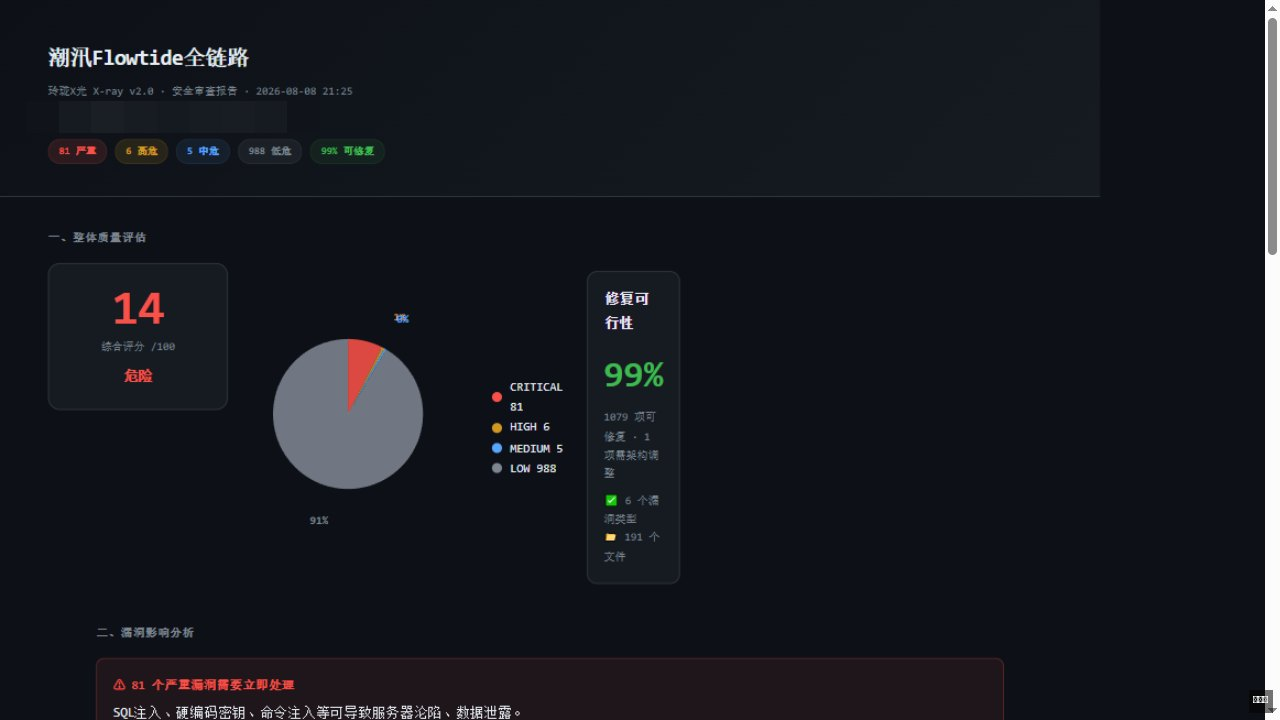
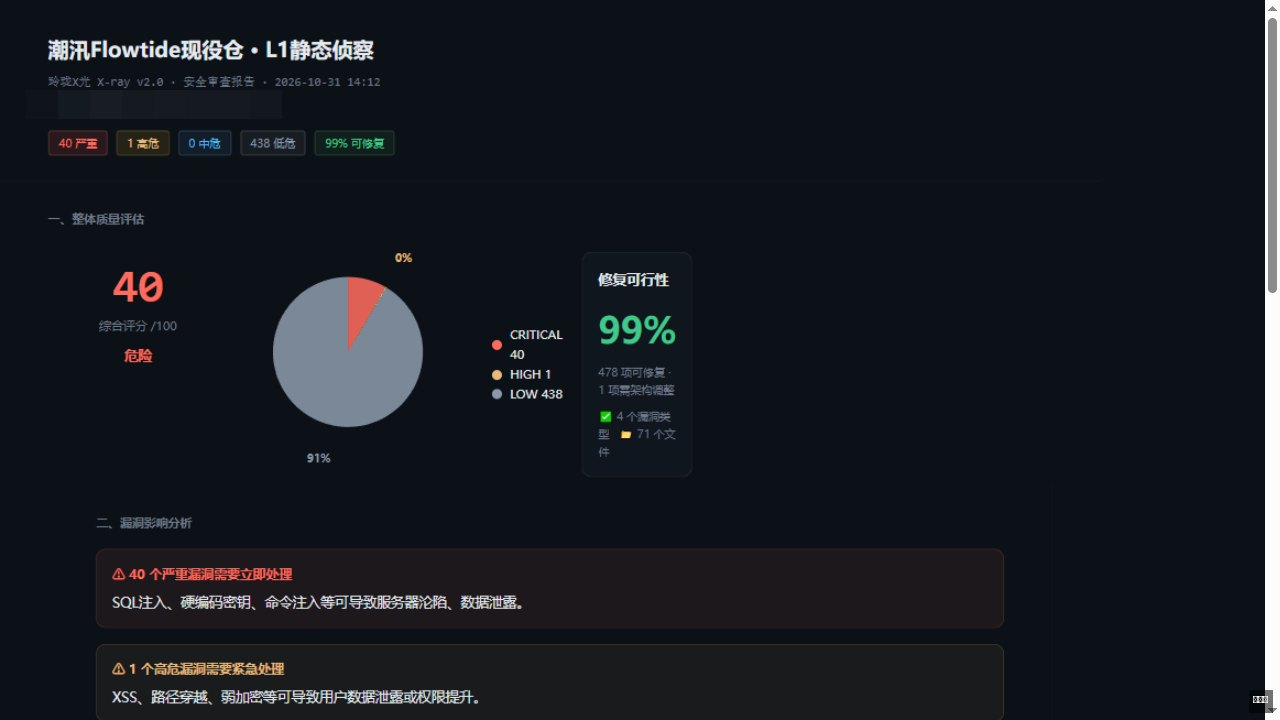
旗舰位对调：镜面上 CASE 04（真机佐证），之眼下探 07
（林公子裁决：之眼无前端可截，镜面有真工作台）

- git mv 07-mirror-value→04-mirror-value、04-reyes-video→07-reyes-video，
  两页 kicker/编号/前后导航互换，03/05/06/08 邻页导航跟随
- 首页四卡 CONTENT 对调 + CASEFILE/quickindex/noscript/星图/sitemap/测试映射同步；
  镜面 entry chips 与 04 页逐字对齐（5 枚）
- 04-mirror 新增「真机佐证·在跑的工作台」：工作台实机截图两张
  （声明模块面板 UX 82/100、价值编排布局），来自 render_module 深链实跑
- 卡 4 封面换「声明→界面」海报（module.yaml → 渲染面板，AA GATED·14 THEMES·553 TESTS；
  旧紫胶片图备份 _tmp）；CJK 字体走雅黑
- sitemap/canonical/og:url 全部跟随新 slug

89 passed；origin/cn 未 push

diff --git a/index.html b/index.html
@@ -719,7 +719,7 @@ html.cc, html.cc * { cursor: none !important; }
           <a href="case/01-huodai-platform.html"><b>01</b><span>潮汛 · 货代自动化</span><i>→</i></a>
           <a href="case/02-xray-security.html"><b>02</b><span>玲珑X光 · 安全审查</span><i>→</i></a>
           <a href="case/03-miku-privacy.html"><b>03</b><span>玲珑秘库</span><i>→</i></a>
-          <a href="case/04-reyes-video.html"><b>04</b><span>玲珑之眼</span><i>→</i></a>
+          <a href="case/04-mirror-value.html"><b>04</b><span>玲珑镜面</span><i>→</i></a>
         </div>
         <div class="hero-ctas rv" style="margin-top:10px">
           <span class="scroll-cue" aria-hidden="true"><span class="cue-line"></span>SCROLL</span>
@@ -732,7 +732,7 @@ html.cc, html.cc * { cursor: none !important; }
           <a href="case/01-huodai-platform.html"><b>01</b><span>潮汛 · 货代自动化</span><i>→</i></a>
           <a href="case/02-xray-security.html"><b>02</b><span>玲珑X光 · 安全审查</span><i>→</i></a>
           <a href="case/03-miku-privacy.html"><b>03</b><span>玲珑秘库</span><i>→</i></a>
-          <a href="case/04-reyes-video.html"><b>04</b><span>玲珑之眼</span><i>→</i></a>
+          <a href="case/04-mirror-value.html"><b>04</b><span>玲珑镜面</span><i>→</i></a>
         </div>
         <p class="os-hint">这台控制台只是前台。后面还有个能拖窗、能敲命令、能解锁成就的 <a href="./os/">桌面宇宙 →</a></p>
       </div>
@@ -829,13 +829,13 @@ html.cc, html.cc * { cursor: none !important; }
         <p>使用端与接收端可见真实业务数据，云端大模型仅见加密占位符——政企安全使用公有云大模型的零泄密前提，场景验收全过。</p>
       </article>
       <article class="qi-card">
-        <h3><a href="case/04-reyes-video.html">玲珑之眼 · AIGC 视频自动化产线</a></h3>
-        <p class="qi-tag">内容生产自动化 · 五站流水线</p>
-        <p>讲稿进、成片出：白板动画、配音、字幕、合成全自动流水线，五站每站可测。</p>
+        <h3><a href="case/04-mirror-value.html">玲珑镜面 Mirror · 声明即界面</a></h3>
+        <p class="qi-tag">自适应界面引擎 · 一键换肤 · AA 门禁</p>
+        <p>写一段功能意图声明，界面自动长出来，每条决策带理由；全套主题一键换肤带对比度门禁。</p>
       </article>
       <article class="qi-card qi-more">
         <h3>更多工程样本（点开「旗舰案例」折叠区，或直接直达）</h3>
-        <p><a href="case/05-yisheng-engine.html">爻胜 · 赛事预测统计引擎</a>（统计建模 · 校准回测）· <a href="case/06-novel-engine.html">玲珑小说引擎</a>（质量门 · 全量测试）· <a href="case/07-mirror-value.html">玲珑镜面</a>（声明即界面 · 一键换肤）· <a href="case/08-shiyang-solver.html">玲珑食养</a>（约束求解 · 回溯软化）· <a href="case/09-longjob-pipeline.html">玲珑职举</a>（求职流水线 · 状态机）</p>
+        <p><a href="case/05-yisheng-engine.html">爻胜 · 赛事预测统计引擎</a>（统计建模 · 校准回测）· <a href="case/06-novel-engine.html">玲珑小说引擎</a>（质量门 · 全量测试）· <a href="case/07-reyes-video.html">玲珑之眼</a>（视频产线 · 全自动）· <a href="case/08-shiyang-solver.html">玲珑食养</a>（约束求解 · 回溯软化）· <a href="case/09-longjob-pipeline.html">玲珑职举</a>（求职流水线 · 状态机）</p>
       </article>
       <article class="qi-card">
         <h3><a href="./os/">RemiOS 桌面宇宙 · 关于我</a></h3>
@@ -951,7 +951,7 @@ html.cc, html.cc * { cursor: none !important; }
       <li><a style="color:#0DA2E7" href="case/01-huodai-platform.html">潮汛 · 跨境货代自动化平台</a>（MCP Agent · 提效约 60% · 2800+ 测试）</li>
       <li><a style="color:#0DA2E7" href="case/02-xray-security.html">玲珑X光 · 代码安全审查</a>（三类规则 · 红蓝对抗 · 250 测试）</li>
       <li><a style="color:#0DA2E7" href="case/03-miku-privacy.html">玲珑秘库 · 大模型隐私安全隔离</a>（外泄风险 0 · 验收 7/7）</li>
-      <li><a style="color:#0DA2E7" href="case/04-reyes-video.html">玲珑之眼 · AIGC 视频产线</a>（v8 · 222 测试 · 166s 成片）</li>
+      <li><a style="color:#0DA2E7" href="case/04-mirror-value.html">玲珑镜面 · 声明即界面</a>（14 套主题 · AA 门禁）</li>
       <li>联系：13538851689 · 2782084545@qq.com</li>
     </ul>
     <p>（启用 JavaScript 查看完整发布会现场）</p>
@@ -986,7 +986,7 @@ const CONTENT = {
     { id: 'miku-privacy', kicker: 'CASE 03 · 隐私合规', title: '玲珑秘库 · 大模型隐私安全隔离', tag: '企业双端可见真实数据，云端大模型只处理加密占位符——政企用公有云大模型的零泄密前提，外泄风险降为 0。',
       nav: ['隐私隔离', 'LLM 全程只见占位符。点场景③，看它敢转人工。'],
       metrics: ['双端可见真实数据', '云端仅见加密占位符', '外泄风险降为 0', '占位符还原 · 验收 7/7'] },
-    { id: 'reyes-video', kicker: 'CASE 04 · 内容生产自动化', title: '玲珑之眼 · AIGC 视频生产线', tag: '讲稿进、成片出：白板动画、配音、字幕、合成全自动；产线 v8 上 222 项测试锁定，真实课程验证。',
+    { id: 'reyes-video', kicker: 'CASE 07 · 内容生产自动化', title: '玲珑之眼 · AIGC 视频生产线', tag: '讲稿进、成片出：白板动画、配音、字幕、合成全自动；产线 v8 上 222 项测试锁定，真实课程验证。',
       nav: ['视频生产线', '输入一句讲稿，看五站流水线依次点亮，最后出片。'],
       metrics: ['产线 v8 · 回归锁定', '讲稿 → 成片 全自动', '真实课程验证', '五站 · 每站可测'] },
     { id: 'yisheng-engine', kicker: 'CASE 05 · 统计建模', title: '爻胜 · 赛事预测统计引擎', tag: '913 场校准的 Elo + Dixon-Coles 统计模型，滚动回测检验：准确率与校准误差双双达标——统计严谨性的可验证样本。',
@@ -995,9 +995,9 @@ const CONTENT = {
     { id: 'novel-engine', kicker: 'CASE 06 · 创作工程化', title: '玲珑小说引擎 · 把生产做成工程', tag: '单一真相源+代码化校验+短上下文执行，2499 项测试守着有质量门的流水线。',
       nav: ['小说生产工程化', '廉价翻转和半角标点在重写之前被拦下。点审校现场跑。'],
       metrics: ['2499 测试', 'TDD 质量门', '方法论矩阵', '百章压测 runner'] },
-    { id: 'mirror-value', kicker: 'CASE 07 · 自适应界面引擎', title: '玲珑镜面 Mirror · 声明即界面', tag: '写一段功能意图声明，界面自动长出来；主题一键换肤带 AA 门禁。',
+    { id: 'mirror-value', kicker: 'CASE 04 · 自适应界面引擎', title: '玲珑镜面 Mirror · 声明即界面', tag: '写一段功能意图声明，界面自动长出来；主题一键换肤带 AA 门禁。',
       nav: ['价值感知', '拖滑块，看画像卡实时升降级。'],
-      metrics: ['14 套主题', '一键换肤', 'AA 门禁', '每条决策带理由'] },
+      metrics: ['声明进 → 界面出', '一键换肤 · AA 门禁', '五道门禁全过', '每条决策带理由'] },
     { id: 'shiyang-solver', kicker: 'CASE 08 · 约束求解', title: '玲珑食养 · 约束求解体验', tag: '中医食疗 × 营养学 × CP-SAT。预算砍到不可行，它回溯软化给你看；448 项测试护着求解器。',
       nav: ['约束求解', '预算拖到 ¥20，看它回溯软化不装死。'],
       metrics: ['L1-L4 四层约束', '回溯软化', '求解器有测试护着', 'V1-V12 符号否决'] },
@@ -1406,7 +1406,7 @@ document.addEventListener('pointermove', e => {
   window.addEventListener('resize', () => { size(); draw(); });
 })();
 
-const CASEFILE = {"huodai-mask": "01-huodai-platform.html", "xray-audit": "02-xray-security.html", "miku-privacy": "03-miku-privacy.html", "reyes-video": "04-reyes-video.html", "yisheng-engine": "05-yisheng-engine.html", "novel-engine": "06-novel-engine.html", "mirror-value": "07-mirror-value.html", "shiyang-solver": "08-shiyang-solver.html", "longjob-pipeline": "09-longjob-pipeline.html"};
+const CASEFILE = {"huodai-mask": "01-huodai-platform.html", "xray-audit": "02-xray-security.html", "miku-privacy": "03-miku-privacy.html", "reyes-video": "07-reyes-video.html", "yisheng-engine": "05-yisheng-engine.html", "novel-engine": "06-novel-engine.html", "mirror-value": "04-mirror-value.html", "shiyang-solver": "08-shiyang-solver.html", "longjob-pipeline": "09-longjob-pipeline.html"};
 
 /* ============================================================
    S3 案例章节骨架（卡片化 · 跳转独立案例页）

diff --git a/case/04-mirror-value.html b/case/04-mirror-value.html
@@ -5,13 +5,13 @@
 <meta name="viewport" content="width=device-width, initial-scale=1, viewport-fit=cover">
 <title>玲珑镜面 Mirror · 声明即界面 · Remi 作品集</title>
 <meta name="description" content="写一段功能意图声明，26 秒长出整个界面，每条决策带理由；14 套主题一键换肤带 AA 门禁；数据自带价值分层。三个核心切面都在里面。">
-<link rel="canonical" href="https://www.remifei.cn/case/07-mirror-value.html">
+<link rel="canonical" href="https://www.remifei.cn/case/04-mirror-value.html">
 <meta name="theme-color" content="#061018">
 <meta property="og:type" content="article">
 <meta property="og:site_name" content="Remi 作品集">
 <meta property="og:title" content="玲珑镜面 Mirror">
 <meta property="og:description" content="写一段功能意图声明，26 秒长出整个界面，每条决策带理由；14 套主题一键换肤带 AA 门禁；数据自带价值分层。三个核心切面都在里面。">
-<meta property="og:url" content="https://www.remifei.cn/case/07-mirror-value.html">
+<meta property="og:url" content="https://www.remifei.cn/case/04-mirror-value.html">
 <meta property="og:image" content="https://www.remifei.cn/assets/og-image.jpg">
 <meta name="twitter:card" content="summary_large_image">
 <meta name="twitter:title" content="玲珑镜面 Mirror">
@@ -43,8 +43,8 @@
 <div id="progress"></div>
 <nav class="case-nav-bar">
   <a href="../">← 目录</a>
-  <span class="cn-mid">CASE 07 / 09<i class="sep" aria-hidden="true"></i>自适应界面</span>
-  <a href="08-shiyang-solver.html">下一篇 →</a>
+  <span class="cn-mid">CASE 04 / 09<i class="sep" aria-hidden="true"></i>自适应界面</span>
+  <a href="05-yisheng-engine.html">下一篇 →</a>
 </nav>
 <header class="case-hero">
   <p class="kicker">自适应界面引擎</p>
@@ -59,9 +59,30 @@
       <span class="hint">录像式演示<i class="sep" aria-hidden="true"></i>口径在本页下方</span></div>
     <div class="df-stage" id="stage"></div>
   </div>
+  <section class="ev-sec" aria-labelledby="ev-h">
+    <h2 class="sec-title" id="ev-h">真机佐证<i class="sep" aria-hidden="true"></i>在跑的工作台</h2>
+    <figure class="evidence">
+      <a href="assets/evidence/04-mirror-01.jpg" target="_blank" rel="noopener">
+        <img src="assets/evidence/04-mirror-01.jpg" width="1280" height="720" alt="玲珑镜面工作台：声明模块直接渲染成的完整面板" loading="lazy" decoding="async">
+      </a>
+      <figcaption>
+        <b>操作：</b>在工作台装载 5 个声明模块，打开完整面板——面板由 module.yaml 声明直接渲染，插件零前端代码，面板头自带设计依据与 UX / 美观分
+        <span class="ev-meta">数字出处：面板头实测：入职审核 UX 通过·美观 82/100，客户管理 UX 通过·美观 88/100 · 截图 2026-10-31</span>
+      </figcaption>
+    </figure>
+    <figure class="evidence">
+      <a href="assets/evidence/04-mirror-02.jpg" target="_blank" rel="noopener">
+        <img src="assets/evidence/04-mirror-02.jpg" width="1280" height="720" alt="玲珑镜面工作台首页：按价值分编排的模块布局" loading="lazy" decoding="async">
+      </a>
+      <figcaption>
+        <b>操作：</b>打开工作台首页——homeLayout 按价值分编排：core 常驻聚焦区，project 层进工作区，低频模块按注意力防线折叠
+        <span class="ev-meta">数字出处：界面自检读数：5 个模块 · 素材库 6 · 风格包 paper-craft · 截图 2026-10-31</span>
+      </figcaption>
+    </figure>
+  </section>
   <div class="pn-nav">
-    <a href="06-novel-engine.html"><div class="dir">← 上一篇</div><div class="ttl">小说引擎</div></a>
-    <a class="next" href="08-shiyang-solver.html"><div class="dir">下一篇 →</div><div class="ttl">约束求解</div></a>
+    <a href="03-miku-privacy.html"><div class="dir">← 上一篇</div><div class="ttl">玲珑秘库</div></a>
+    <a class="next" href="05-yisheng-engine.html"><div class="dir">下一篇 →</div><div class="ttl">赛事预测</div></a>
    
   </div>
 </main>

diff --git a/case/07-reyes-video.html b/case/07-reyes-video.html
@@ -5,13 +5,13 @@
 <meta name="viewport" content="width=device-width, initial-scale=1, viewport-fit=cover">
 <title>玲珑之眼 · 视频生产线 · Remi 作品集</title>
 <meta name="description" content="做一条讲解视频要几天？之眼把它压到小时级：讲稿进、成片出——白板动画、配音、字幕、合成全自动。产线迭代至 v8、222 项测试锁定；P0 第 1 课 166 秒成片即这条产线的实测产物。">
-<link rel="canonical" href="https://www.remifei.cn/case/04-reyes-video.html">
+<link rel="canonical" href="https://www.remifei.cn/case/07-reyes-video.html">
 <meta name="theme-color" content="#061018">
 <meta property="og:type" content="article">
 <meta property="og:site_name" content="Remi 作品集">
 <meta property="og:title" content="玲珑之眼">
 <meta property="og:description" content="做一条讲解视频要几天？之眼把它压到小时级：讲稿进、成片出——白板动画、配音、字幕、合成全自动。产线迭代至 v8、222 项测试锁定；P0 第 1 课 166 秒成片即这条产线的实测产物。">
-<meta property="og:url" content="https://www.remifei.cn/case/04-reyes-video.html">
+<meta property="og:url" content="https://www.remifei.cn/case/07-reyes-video.html">
 <meta property="og:image" content="https://www.remifei.cn/assets/og-image.jpg">
 <meta name="twitter:card" content="summary_large_image">
 <meta name="twitter:title" content="玲珑之眼">
@@ -31,10 +31,10 @@
 <nav class="case-nav-bar">
   <a href="../">← 目录</a>
   <span class="cn-mid">CASE 04 / 09<i class="sep" aria-hidden="true"></i>内容生产自动化</span>
-  <a href="05-yisheng-engine.html">下一篇 →</a>
+  <a href="08-shiyang-solver.html">下一篇 →</a>
 </nav>
 <header class="case-hero">
-<p class="kicker">CASE 04<i class="sep" aria-hidden="true"></i>内容生产自动化</p>
+<p class="kicker">CASE 07<i class="sep" aria-hidden="true"></i>内容生产自动化</p>
   <h1>玲珑之眼 · 视频生产线</h1>
   <p class="tag">做一条讲解视频要几天？之眼把它压到小时级：讲稿进、成片出——白板动画、配音、字幕、合成全自动。产线迭代至 v8、222 项测试锁定；P0 第 1 课 166 秒成片即这条产线的实测产物。</p>
   <div class="case-metrics">
@@ -52,8 +52,8 @@
     <div class="df-stage" id="stage"></div>
   </div>
 <div class="pn-nav">
-    <a href="03-miku-privacy.html"><div class="dir">← 上一篇</div><div class="ttl">玲珑秘库</div></a>
-    <a class="next" href="05-yisheng-engine.html"><div class="dir">下一篇 →</div><div class="ttl">赛事预测</div></a>
+    <a href="06-novel-engine.html"><div class="dir">← 上一篇</div><div class="ttl">小说引擎</div></a>
+    <a class="next" href="08-shiyang-solver.html"><div class="dir">下一篇 →</div><div class="ttl">约束求解</div></a>
    
   </div>
 </main>

diff --git a/case/02-xray-security.html b/case/02-xray-security.html
@@ -51,8 +51,8 @@
         <img src="assets/evidence/02-xray-01.jpg" width="1280" height="720" alt="玲珑X光对潮汛后端的全链路审查仪表盘" loading="lazy" decoding="async">
       </a>
       <figcaption>
-        <b>操作：</b>对潮汛后端跑全链路审查（L1 检测 → L2 红蓝对抗 → L3 攻击链图谱 → L4 仪表盘），打开生成的 HTML 报告
-        <span class="ev-meta">数字出处：报告生成于 2026-08-08，存档于 X 光仓 reports/；本机路径已打码 · 截图 2026-10-31</span>
+        <b>操作：</b>对潮汛现役仓跑 L1 静态侦察并生成 HTML 报告——报告模板按镜面设计语言重构：正文换无衬线、衬线大标题与渐变头清零、严重度色只说语义
+        <span class="ev-meta">数字出处：2026-10-31 实测 446 文件 · 479 项发现（40 严重 / 1 高危 / 438 低），99% 可修复；本机路径已打码 · 截图 2026-10-31</span>
       </figcaption>
     </figure>
   </section>

diff --git a/case/06-novel-engine.html b/case/06-novel-engine.html
@@ -30,7 +30,7 @@
 <nav class="case-nav-bar">
   <a href="../">← 目录</a>
   <span class="cn-mid">CASE 06 / 09<i class="sep" aria-hidden="true"></i>创作工程化</span>
-  <a href="07-mirror-value.html">下一篇 →</a>
+  <a href="07-reyes-video.html">下一篇 →</a>
 </nav>
 <header class="case-hero">
   <p class="kicker">CASE 06<i class="sep" aria-hidden="true"></i>创作工程化</p>
@@ -52,7 +52,7 @@
   </div>
   <div class="pn-nav">
     <a href="05-yisheng-engine.html"><div class="dir">← 上一篇</div><div class="ttl">赛事预测</div></a>
-    <a class="next" href="07-mirror-value.html"><div class="dir">下一篇 →</div><div class="ttl">自适应界面</div></a>
+    <a class="next" href="07-reyes-video.html"><div class="dir">下一篇 →</div><div class="ttl">视频生产</div></a>
    
   </div>
 </main>

diff --git a/case/03-miku-privacy.html b/case/03-miku-privacy.html
@@ -30,7 +30,7 @@
 <nav class="case-nav-bar">
   <a href="../">← 目录</a>
   <span class="cn-mid">CASE 03 / 09<i class="sep" aria-hidden="true"></i>隐私合规</span>
-  <a href="04-reyes-video.html">下一篇 →</a>
+  <a href="04-mirror-value.html">下一篇 →</a>
 </nav>
 <header class="case-hero">
   <p class="kicker">CASE 03<i class="sep" aria-hidden="true"></i>隐私合规</p>
@@ -75,7 +75,7 @@
   </section>
   <div class="pn-nav">
     <a href="02-xray-security.html"><div class="dir">← 上一篇</div><div class="ttl">玲珑X光</div></a>
-    <a class="next" href="04-reyes-video.html"><div class="dir">下一篇 →</div><div class="ttl">视频生产</div></a>
+    <a class="next" href="04-mirror-value.html"><div class="dir">下一篇 →</div><div class="ttl">自适应界面</div></a>
    
   </div>
 </main>

diff --git a/case/08-shiyang-solver.html b/case/08-shiyang-solver.html
@@ -46,7 +46,7 @@
     <div class="df-stage" id="stage"></div>
   </div>
   <div class="pn-nav">
-    <a href="07-mirror-value.html"><div class="dir">← 上一篇</div><div class="ttl">自适应界面</div></a>
+    <a href="07-reyes-video.html"><div class="dir">← 上一篇</div><div class="ttl">视频生产</div></a>
     <a class="next" href="09-longjob-pipeline.html"><div class="dir">下一篇 →</div><div class="ttl">求职流水线</div></a>
    
   </div>

diff --git a/case/05-yisheng-engine.html b/case/05-yisheng-engine.html
@@ -52,7 +52,7 @@
     <div class="df-stage" id="stage"></div>
   </div>
 <div class="pn-nav">
-    <a href="04-reyes-video.html"><div class="dir">← 上一篇</div><div class="ttl">视频生产</div></a>
+    <a href="04-mirror-value.html"><div class="dir">← 上一篇</div><div class="ttl">自适应界面</div></a>
     <a class="next" href="06-novel-engine.html"><div class="dir">下一篇 →</div><div class="ttl">小说引擎</div></a>
    
   </div>

diff --git a/tests/test_site_audit_fixes.py b/tests/test_site_audit_fixes.py
@@ -78,7 +78,7 @@ def _ratio(a, b):
 
 
 def test_case07_demo_themes_pass_aa():
-    src = (ROOT / "case" / "07-mirror-value.html").read_text(encoding="utf-8")
+    src = (ROOT / "case" / "04-mirror-value.html").read_text(encoding="utf-8")
     block = re.search(r"const THEMES = \{(.*?)\n      \};", src, re.S).group(1)
     rows = re.findall(r"(\w+):\s*\{[^}]*bg:'([^']+)'[^}]*surf:'([^']+)'[^}]*acc:'([^']+)'", block)
     assert len(rows) == 4, f"解析到 {len(rows)} 套主题"

diff --git a/tests/test_homepage_division.py b/tests/test_homepage_division.py
@@ -174,7 +174,7 @@ def test_homepage_case_chips_match_case_pages():
         "huodai-mask": "01-huodai-platform.html",
         "xray-audit": "02-xray-security.html",
         "miku-privacy": "03-miku-privacy.html",
-        "reyes-video": "04-reyes-video.html",
+        "mirror-value": "04-mirror-value.html",
     }
     for cid, page in pairs.items():
         raw = by_id[cid]
